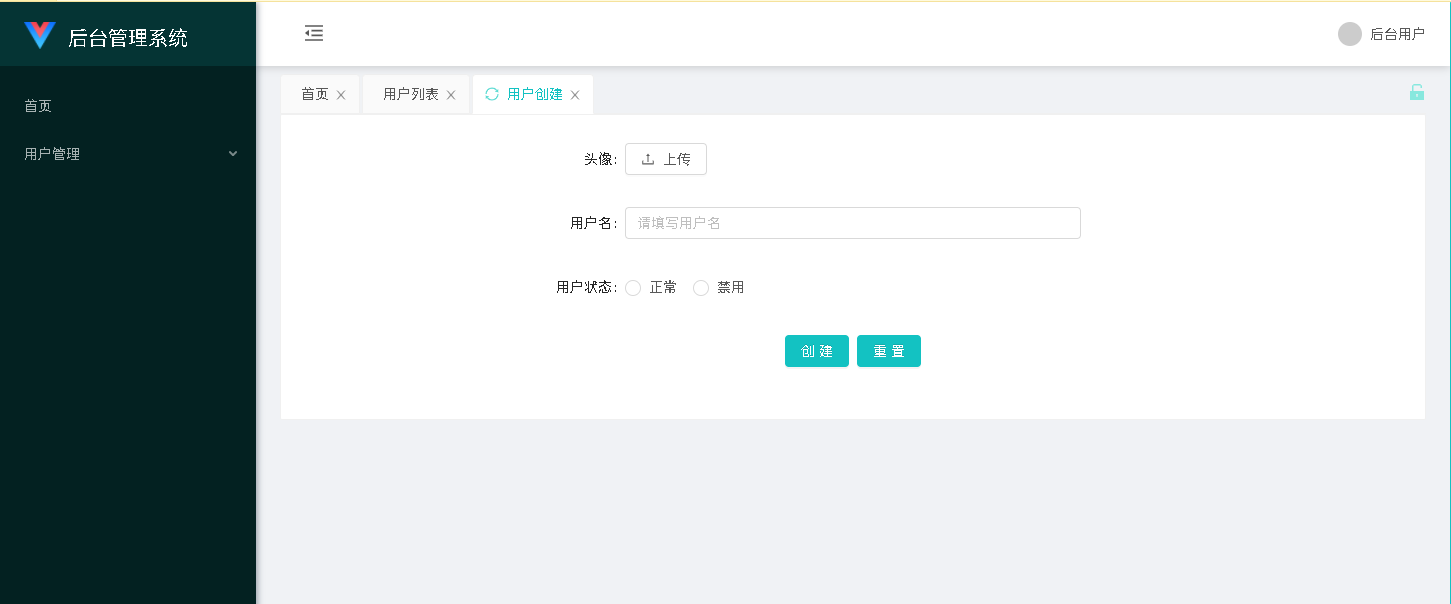
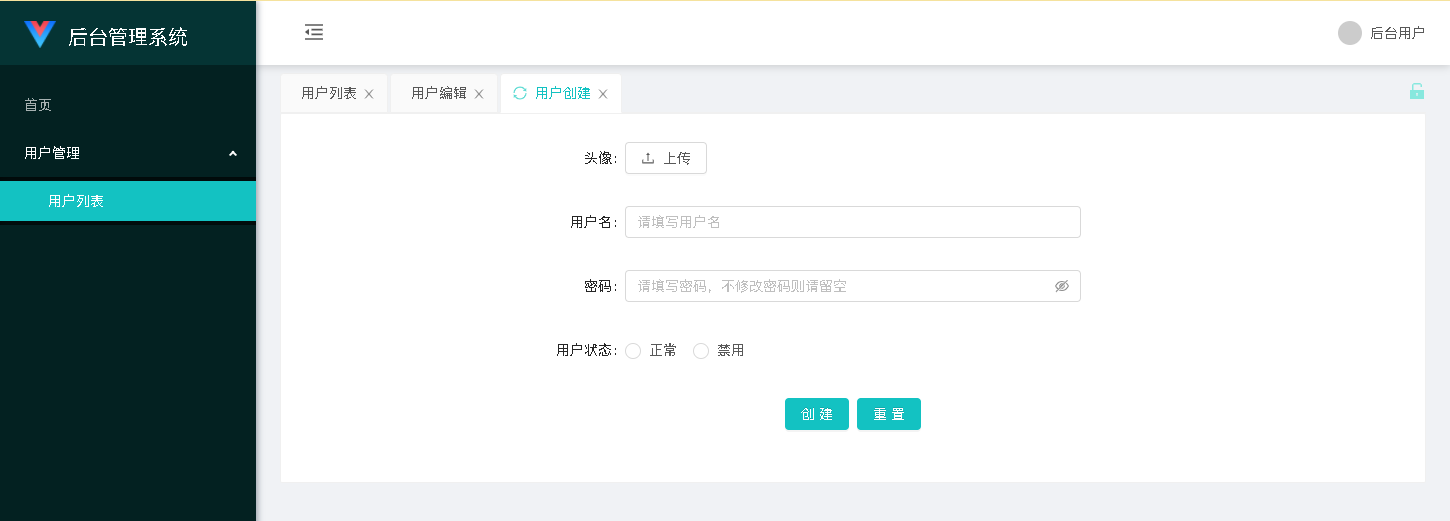
更新文档

diff --git a/docs/2/quick.md b/docs/2/quick.md
@@ -183,5 +183,7 @@ return [
 ![](quick_1.png)
 
 选择左侧的用户列表后如图所示，这个页面就是我们配置好的页面啦：
-![](quick_2.png)
-![](quick_3.png)
+![/admin/user/list](quick_2.png)
+![/admin/user/create](quick_3.png)
+![/admin/user/list](quick_4.png)
+![/admin/user/edit?id=10](quick_5.png)
